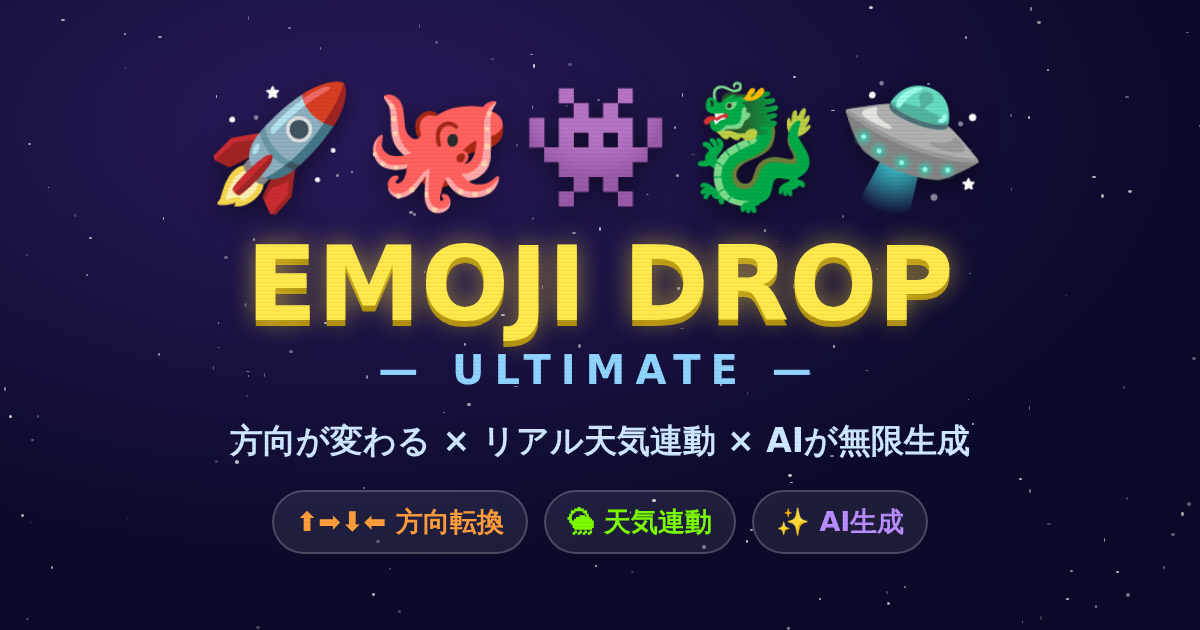
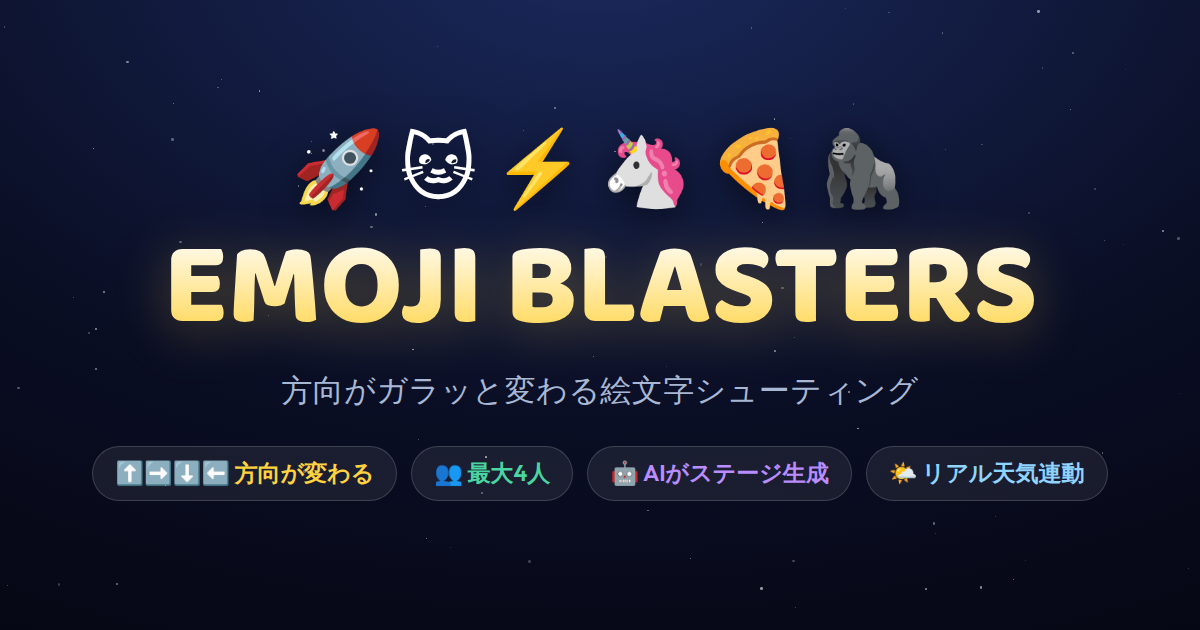
Regenerate the link preview, from a script this time
og.png still had EMOJI DROP ULTIMATE baked into it. The rename reached the
title, the logo drawn on canvas, the manifest, the share card and every
document, but an image does not turn up in grep, so it survived and every
link shared anywhere showed the old name.

tools/og.mjs draws it instead: the same palette from src/theme.js and the
same two bundled fonts, rendered at 1200x630 through the Chromium
tools/probe already has, so no new dependency. Stars are placed from a fixed
seed, so regenerating produces the same picture and a real change is
readable in the diff. The point is not this one image — it is that the next
rename costs one command rather than remembering an asset nobody greps.

Two tests hold it: the PNG is really 1200x630 and listed in the app shell,
and the generator still exists.

Claude-Session: https://claude.ai/code/session_01BuB57Yq9rRRAbB23jVKcwx

diff --git a/test/sw.test.js b/test/sw.test.js
@@ -118,3 +118,24 @@ test('fonts.css が参照する書体ファイルが実在する', () => {
     assert.ok(existsSync(join(ROOT, 'fonts', u)), `fonts.css が指すファイルが無い: ${u}`);
   }
 });
+
+test('OGP画像が規定のサイズで、app shell に入っている', () => {
+  // SNS のリンクプレビューは 1200x630。ここがずれると勝手に切り取られる。
+  // 改名したとき、タイトルもロゴも docs も直したのに og.png だけ旧名のまま
+  // 残っていた —— 画像は grep に掛からないので、こうして縛っておく。
+  // 作り直しは `node tools/og.mjs`(再生成できる形にしてある)。
+  const p = join(ROOT, 'og.png');
+  assert.ok(existsSync(p), 'og.png が無い');
+  const buf = readFileSync(p);
+  assert.equal(buf.subarray(1, 4).toString(), 'PNG', 'PNG ではない');
+  const w = buf.readUInt32BE(16), h = buf.readUInt32BE(20);
+  assert.equal(w, 1200, `OGP画像の幅が 1200 でない (${w})`);
+  assert.equal(h, 630, `OGP画像の高さが 630 でない (${h})`);
+  assert.ok(sw.includes("'/og.png'"), 'og.png が APP_SHELL に無い');
+});
+
+test('OGP画像を作り直す道具が残っている', () => {
+  // 手で作った画像は必ず腐る。次の改名でも1コマンドで済むようにしておく。
+  assert.ok(existsSync(join(ROOT, 'tools/og.mjs')),
+    'tools/og.mjs が無い —— og.png を手で作り直すことになる');
+});

diff --git a/docs/sim-report.md b/docs/sim-report.md
@@ -2,25 +2,25 @@
 
 > 2026-09-06 生成。`node tools/sim/run.mjs --report` で再生成する。**手で書き換えない。**
 >
-> 720本の自動プレイ（77.3秒）。
+> 576本の自動プレイ（58.3秒）。
 > 軸: 種[1,2,3] × キャラ全16体
-> × 難易度3段 × ボット["hunter","drag","dodge","sweep","idle"] × ステージ[0]。
+> × 難易度3段 × ボット["hunter","dodge","sweep","idle"] × ステージ[0]。
 > 時計: ゲーム内時間（ブラウザで遊んだときと同条件）
 
 ## 全体
 
 | | |
 |---|---:|
-| 実行数 | 720 |
+| 実行数 | 576 |
 | 突破率（1面クリア） | **9%** |
-| 所要時間の中央値 | 56.6 秒 |
-| 命中率の中央値 | 35% |
-| 初回被弾までの中央値 | 21.3 秒 |
-| 一度も死ななかった実行 | 6 / 720 |
+| 所要時間の中央値 | 52.8 秒 |
+| 命中率の中央値 | 37% |
+| 初回被弾までの中央値 | 16.4 秒 |
+| 一度も死ななかった実行 | 6 / 576 |
 | **空白の最長**（敵も弾もボスも居ない） | **4.95 秒** |
 | 空白が占める割合 | 5% |
-| 粒子の最大同時数 | 455 |
-| ベル 出た / 取った / 逃した | 4699 / 2065 / 1435 |
+| 粒子の最大同時数 | 419 |
+| ベル 出た / 取った / 逃した | 3414 / 1648 / 826 |
 
 ## キャラ別（上手いボット `hunter` のみ）
 
@@ -65,7 +65,6 @@
 | ボット | 何を代表するか | 突破率 | 初回被弾 | 死因: 弾 / 敵本体 |
 |---|---|---:|---:|---:|
 | `hunter` | 狙って避ける（キー操作） | 32% | 41.4s | 324 / 55 |
-| `drag` | **指の速さで避ける（実機に一番近い）** | 11% | 30.2s | 422 / 38 |
 | `dodge` | 避けるが狙わない（キー操作） | 3% | 15.1s | 270 / 206 |
 | `sweep` | 往復するだけ（キー操作） | 0% | 13.5s | 284 / 206 |
 | `idle` | 何も押さない（床） | 0% | 13.6s | 432 / 49 |
@@ -80,14 +79,14 @@
 
 | 札 | 回数 | 割合 |
 |---|---:|---:|
-| `flee` | 18 | 22% |
-| `turn` | 15 | 18% |
-| `revive` | 13 | 16% |
-| `split` | 13 | 16% |
-| `greed` | 13 | 16% |
-| `legacy` | 10 | 12% |
+| `flee` | 13 | 22% |
+| `turn` | 12 | 20% |
+| `split` | 10 | 17% |
+| `revive` | 9 | 15% |
+| `greed` | 9 | 15% |
+| `legacy` | 6 | 10% |
 
-> 6枚に対して観測 6 種 / 82 回。
+> 6枚に対して観測 6 種 / 59 回。
 > 「直近2枚を除外」ルールがあるので完全な均等にはならないが、
 > **一度も出ない札があれば、それは実質存在していない。**
 

diff --git a/tools/README.md b/tools/README.md
@@ -20,6 +20,7 @@ node tools/verify.mjs --quick   # テストだけ(3秒)
 | `sim/` | 自動プレイを何百本も回して**遊びを測る** | ゼロ | [docs/sim-report.md](../docs/sim-report.md) |
 | `probe/` | 実ブラウザで**性能・オフライン・画面を測る** | Playwright | [docs/probe-report.md](../docs/probe-report.md) |
 | `native-audit.mjs` | ネイティブ化の価値を**台帳にする** | ゼロ | [docs/native-value.md](../docs/native-value.md) |
+| `og.mjs` | **SNS のリンクプレビュー画像を作り直す** | probe の Chromium を借りる | `og.png` |
 | `emoji-sheet.mjs` | 絵文字の見え方を並べる | ゼロ | `docs/emoji.html` |
 
 判断そのものは [docs/verify-loop.md](../docs/verify-loop.md) と

diff --git a/docs/native-value.md b/docs/native-value.md
@@ -1,9 +1,9 @@
 # ネイティブ化の価値 — 台帳
 
-> 2026-09-04 生成。`node tools/native-audit.mjs` で再生成する。**手で書き換えない。**
+> 2026-09-06 生成。`node tools/native-audit.mjs` で再生成する。**手で書き換えない。**
 >
 > 判断そのものは [native-decision.md](./native-decision.md) にある。ここはその材料。
-> 数字は `src/`(28ファイル・9622行)・`index.html`・`sw.js` の実測。
+> 数字は `src/`(28ファイル・9646行)・`index.html`・`sw.js` の実測。
 
 ## 1. いま何で出来ているか
 
